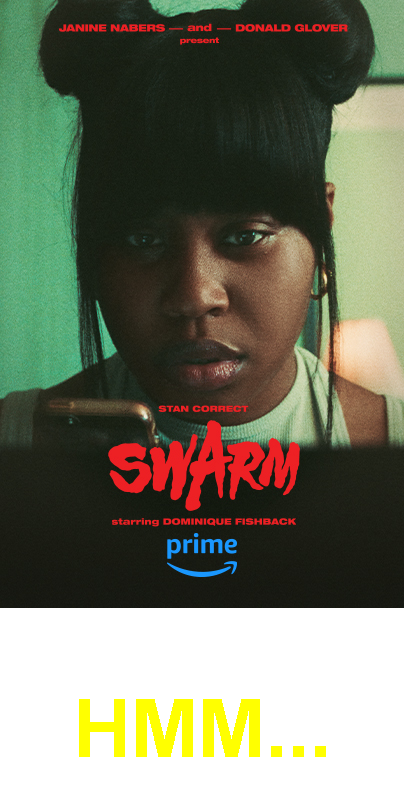
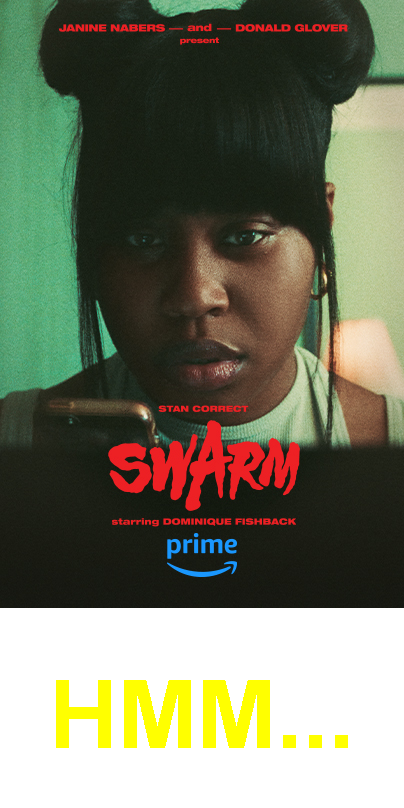
Fixing image url error.

Changed region(s): [[0.1188, 0.8354, 0.4752, 0.9592], [0.505, 0.8354, 0.802, 0.9592], [0.8317, 0.8973, 0.8614, 0.9282]]

diff --git a/src/main/java/api/StickerGenerator.java b/src/main/java/api/StickerGenerator.java
@@ -25,7 +25,7 @@ public class StickerGenerator {
         graphics.drawImage(image, 0, 0, null);
 
         //configure font
-        Font font = new Font(Font.SANS_SERIF, Font.BOLD, 80);
+        Font font = new Font(Font.SANS_SERIF, Font.BOLD, 95);
         graphics.setColor(Color.YELLOW);
         graphics.setFont(font);
 
@@ -43,6 +43,6 @@ public class StickerGenerator {
     }
 
     private static String fixURL(String URL) {
-        return URL.replace("._V1_UX128_CR0,12,128,176_AL_", "");
+        return URL.replace("._V1_UX128_CR0,3,128,176_AL_", "");
     }
 }

diff --git a/src/main/java/app/App.java b/src/main/java/app/App.java
@@ -5,6 +5,7 @@ import api.enums.Topic;
 
 public class App {
     public static void main(String[] args) {
+        //Warning: maybe API image url can change!
         //Connect to API.
         APIConsumer api = new APIConsumer(Topic.MOST_POPULAR_TVS, "k_h163zvxx");
 

diff --git a/src/main/java/api/JsonParser.java b/src/main/java/api/JsonParser.java
@@ -47,6 +47,6 @@ public class JsonParser {
     }
 
     private static String fixURL(String URL) {
-        return URL.replace("._V1_UX128_CR0,12,128,176_AL_", "");
+        return URL.replace("._V1_UX128_CR0,3,128,176_AL_", "");
     }
 }
